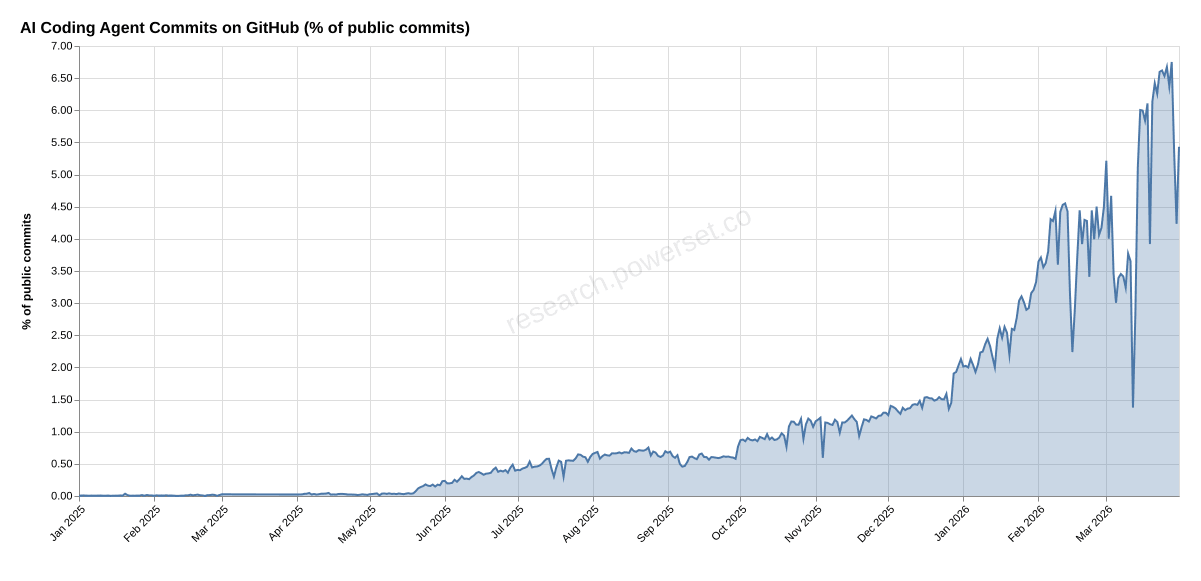
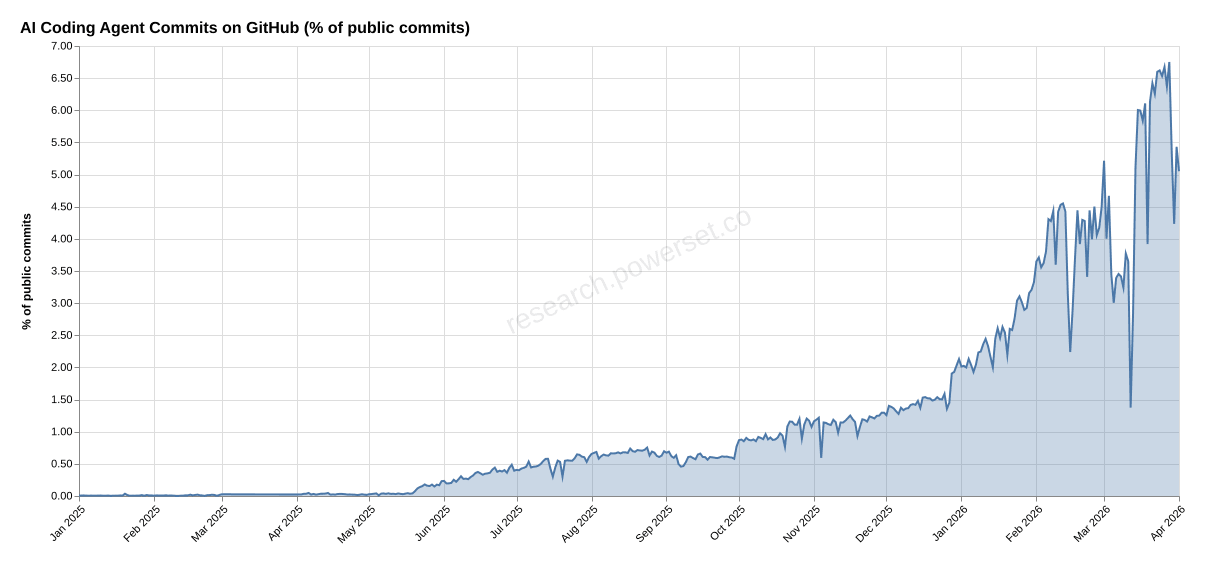
data update

diff --git a/README.md b/README.md
@@ -11,8 +11,8 @@ The following chart and table are updated automatically by a GitHub Action runni
 
 | Agent          |                      | %     |
 | -------------- | -------------------- | ----- |
-| Claude Code    | ████████████████████ | 5.78% |
-| GitHub Copilot | █                    | 0.24% |
+| Claude Code    | ████████████████████ | 5.66% |
+| GitHub Copilot | █                    | 0.23% |
 | Google Jules   |                      | 0.05% |
 
 <!-- recent-table-end -->
